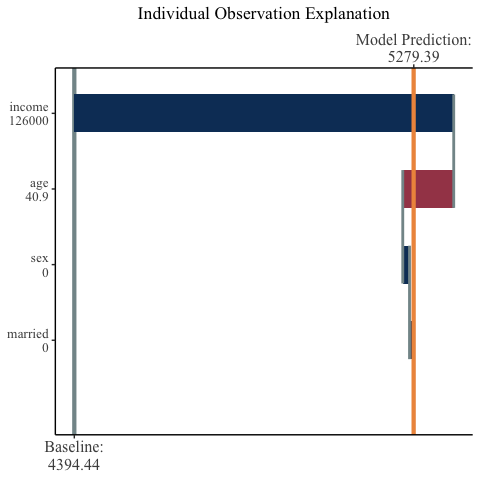
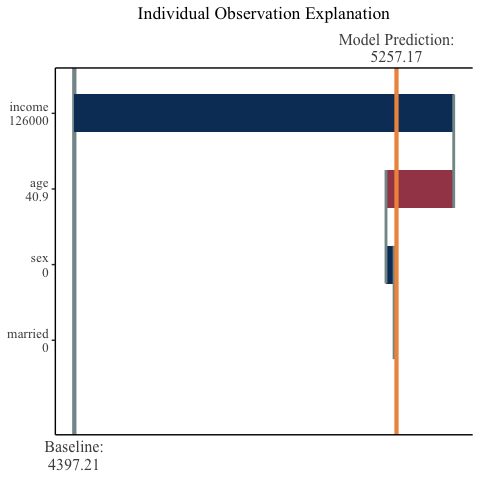
added badge back to readme

Changed region(s): [[0.6875, 0.0625, 0.9688, 0.9062], [0.1562, 0.9375, 0.2188, 1.0]]

diff --git a/README.md b/README.md
@@ -4,7 +4,9 @@
 # mshap
 
 <!-- badges: start -->
-<!--[![Travis build status](https://travis-ci.com/srmatth/mshap.svg?branch=main)](https://travis-ci.com/srmatth/mshap)-->
+
+[![Travis build
+status](https://travis-ci.com/srmatth/mshap.svg?branch=main)](https://travis-ci.com/srmatth/mshap)
 <!-- badges: end -->
 
 The goal of mshap is to allow SHAP values for two-part models to be
@@ -124,17 +126,17 @@ final_shap <- mshap(
 
 head(final_shap$shap_vals)
 #> # A tibble: 6 x 4
-#>       V1     V2    V3     V4
-#>    <dbl>  <dbl> <dbl>  <dbl>
-#> 1  1160. -1228. 12.7  -11.5 
-#> 2 -2689.  1125. 22.7   -6.36
-#> 3 -1022.  1316. 19.4   17.3 
-#> 4 -2087.  -876.  2.72 -21.6 
-#> 5  3794.  2125. 31.5  -17.2 
-#> 6 -2155.   926. 21.2   -4.14
+#>       V1     V2    V3    V4
+#>    <dbl>  <dbl> <dbl> <dbl>
+#> 1  1174. -1216. 13.4  -10.7
+#> 2 -2729.  1182. -1.19 -18.1
+#> 3 -1001.  1312. 12.8   20.8
+#> 4 -2067.  -884.  2.97 -24.9
+#> 5  3794.  2081. 30.7  -34.9
+#> 6 -2185.   908. 21.8  -25.0
 
 final_shap$expected_value
-#> [1] 4394.444
+#> [1] 4397.209
 ```
 
 As a check, you can see that the expected value for mSHAP is indeed the
@@ -143,7 +145,7 @@ expected value of the model across the training data.
 ``` r
 ## R
 mean(py$tot_rev)
-#> [1] 4394.444
+#> [1] 4397.209
 ```
 
 We now have calculated the mSHAP values for the multiplied model
@@ -173,8 +175,6 @@ observation_plot(
   expected_value = final_shap$expected_value,
   names = c("age", "income", "married", "sex")
 )
-#> Warning in min(x): no non-missing arguments to min; returning Inf
-#> Warning in max(x): no non-missing arguments to max; returning -Inf
 ```
 
 <img src="man/figures/README-unnamed-chunk-11-1.png" style="display: block; margin: auto;" />
